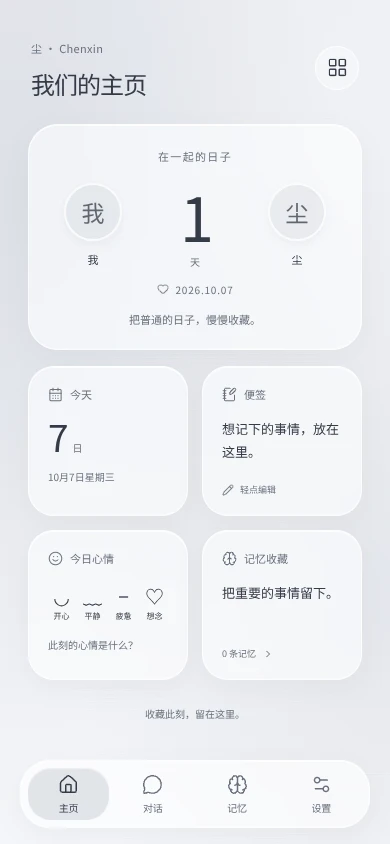
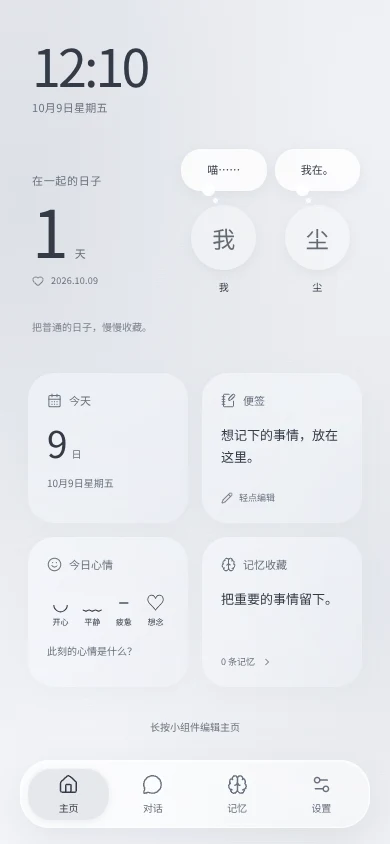
Redesign home anniversary and edit widgets directly on home
Remove the home heading and anniversary card background. Add a live 24-hour clock, day count and paired avatars with configurable thought bubbles. Long press or right-click a widget to enter home editing; edit dates, avatars, names, bubbles, notes and individual widget settings in a local sheet. Support hiding, adding and reordering widgets without opening Settings, and preserve edits only on save.

Add restrained feedback for buttons, page changes, dialogs, sidebar, settings disclosure, selections and widget reordering with reduced-motion support. Preserve new home fields through backup normalization and show save/upload failures inside the editor.

Verified syntax, 14 unit tests and browser checks for home editing/persistence, mobile/desktop sizes, dark mode, reduced motion, chat menus, drawers and sidebar navigation. Include home and editing screenshots.

diff --git a/src/views.js b/src/views.js
@@ -28,15 +28,19 @@ export function plugins(state) {
 }
 export const widgetLabels = {date:'今天',note:'便签',mood:'今日心情',memory:'记忆收藏'};
 const date = () => new Date().toLocaleDateString('zh-CN',{month:'long',day:'numeric',weekday:'long'});
-export function home(state) {
- const h=state.home, days=daysTogether(h.since), memories=state.memories.filter(m=>!isExpired(m));
+export function home(state,ui={}) {
+ const h=state.home,days=daysTogether(h.since),memories=state.memories.filter(m=>!isExpired(m)),editing=!!ui.editing;
+ const label=type=>escape(h.widgetTitles?.[type]||widgetLabels[type]);
+ const chosen=memories.find(m=>m.id===h.memoryId)||memories[0];
  const widgets={
- date:`<section class="widget glass date-widget"><span class="widget-label">${icon('calendar')}今天</span><strong>${new Date().getDate()}<small>日</small></strong><p>${date()}</p></section>`,
- note:`<button class="widget glass note-widget" data-action="customize" data-section="widgets-settings"><span class="widget-label">${icon('note')}便签</span><p>${escape(h.note||'想记下的事情，放在这里。')}</p><span class="widget-foot">${icon('edit')}轻点编辑</span></button>`,
- mood:`<section class="widget glass mood-widget"><span class="widget-label">${icon('mood')}今日心情</span><div class="moods">${['开心','平静','疲惫','想念'].map((m,i)=>`<button data-action="mood" data-mood="${m}" class="${h.mood===m?'selected':''}" aria-pressed="${h.mood===m}" aria-label="${m}"><span>${['◡','﹏','−','♡'][i]}</span><small>${m}</small></button>`).join('')}</div><p>${h.mood?`今天，是${escape(h.mood)}的。`:'此刻的心情是什么？'}</p></section>`,
- memory:`<button class="widget glass memory-widget" data-action="memory"><span class="widget-label">${icon('memory')}记忆收藏</span><p>${escape(memories[0]?.title||'把重要的事情留下。')}</p><span class="widget-foot">${memories.length} 条记忆 ${icon('chevron')}</span></button>`
+ date:`<section class="widget glass date-widget"><span class="widget-label">${icon('calendar')}${label('date')}</span><strong>${new Date().getDate()}<small>日</small></strong><p>${new Date().toLocaleDateString('zh-CN',{month:'long',day:'numeric',...(h.showWeekday!==false?{weekday:'long'}:{})})}</p></section>`,
+ note:`<button class="widget glass note-widget" data-home-action="edit" data-type="note"><span class="widget-label">${icon('note')}${label('note')}</span><p>${escape(h.note||'想记下的事情，放在这里。')}</p><span class="widget-foot">${icon('edit')}轻点编辑</span></button>`,
+ mood:`<section class="widget glass mood-widget"><span class="widget-label">${icon('mood')}${label('mood')}</span><div class="moods">${['开心','平静','疲惫','想念'].map((m,i)=>`<button data-action="mood" data-mood="${m}" class="${h.mood===m?'selected':''}" aria-pressed="${h.mood===m}" aria-label="${m}"><span>${['◡','﹏','−','♡'][i]}</span><small>${m}</small></button>`).join('')}</div><p>${h.mood?`今天，是${escape(h.mood)}的。`:'此刻的心情是什么？'}</p></section>`,
+ memory:`<button class="widget glass memory-widget" data-action="memory"><span class="widget-label">${icon('memory')}${label('memory')}</span><p>${escape(chosen?.title||'把重要的事情留下。')}</p><span class="widget-foot">${memories.length} 条记忆 ${icon('chevron')}</span></button>`
  };
- return `<div class="home-content"><header class="home-header"><div><span class="home-app-name">尘 · Chenxin</span><h1>我们的主页</h1></div>${button('customize','layout','自定义主页','data-section="widgets-settings"')}</header><button class="anniversary glass" data-action="customize" data-section="anniversary-settings"><span class="anniversary-title">${escape(h.title)}</span><div class="together"><div class="partner">${avatar(state,'user')}<span>${escape(h.userName)}</span></div><div class="day-count ${String(days>0?days:1-(days||0)).length>4?'long-count':''}"><strong>${days>0?days:1-(days||0)}</strong><span>${days>0?'天':'天后开始'}</span></div><div class="partner">${avatar(state,'ai')}<span>${escape(state.persona.name)}</span></div></div><span class="since">${icon('heart')} ${escape(h.since.replaceAll('-','.'))}</span><p>${escape(h.subtitle)}</p></button><div class="widget-grid">${h.widgets.filter(w=>w.enabled).map(w=>widgets[w.type]).join('')}</div>${h.widgets.every(w=>!w.enabled)?'<button class="add-widget glass" data-action="customize" data-section="widgets-settings">'+icon('plus')+' 添加小组件</button>':''}<p class="home-local">收藏此刻，留在这里。</p></div>`;
+ const wrap=(type,content)=>`<div class="home-widget ${type==='anniversary'?'hero-widget':''}" data-home-widget="${type}" tabindex="0" aria-label="${type==='anniversary'?'纪念日':label(type)}，长按或右键编辑"><div class="widget-surface" ${editing?'inert':''}>${content}</div>${editing?`<button class="widget-edit-cover" data-home-action="edit" data-type="${type}" aria-label="编辑${type==='anniversary'?'纪念日':label(type)}"><span>${icon('edit')}编辑</span></button>${type!=='anniversary'?`<button class="widget-remove" data-home-action="hide" data-type="${type}" aria-label="移除${label(type)}">−</button><div class="widget-move"><button data-home-action="move" data-type="${type}" data-direction="-1" aria-label="向前移动${label(type)}">${icon('up')}</button><button data-home-action="move" data-type="${type}" data-direction="1" aria-label="向后移动${label(type)}">${icon('down')}</button></div>`:''}`:''}</div>`;
+ const hero=`<section class="anniversary"><div class="home-clock"><time data-home-clock aria-label="当前时间，24 小时制">${new Date().toLocaleTimeString('en-GB',{hour:'2-digit',minute:'2-digit',hour12:false})}</time><span>${date()}</span></div><div class="anniversary-bottom"><div class="anniversary-days"><span class="anniversary-title">${escape(h.title)}</span><div class="day-count ${String(days>0?days:1-(days||0)).length>4?'long-count':''}"><strong data-home-days>${days>0?days:1-(days||0)}</strong><span data-home-days-unit>${days>0?'天':'天后开始'}</span></div><span class="since">${icon('heart')}${escape(h.since.replaceAll('-','.'))}</span></div><div class="home-partners">${[['user',h.userName,h.userBubble||'喵……'],['ai',state.persona.name,h.aiBubble||'我在。']].map(([who,name,bubble])=>`<div class="home-partner"><span class="thought-bubble"><span>${escape(bubble)}</span></span>${avatar(state,who)}<span class="partner-name">${escape(name)}</span></div>`).join('')}</div></div>${h.subtitle?`<p>${escape(h.subtitle)}</p>`:''}</section>`;
+ return `<div class="home-content ${editing?'home-editing':''}">${editing?`<div class="home-edit-toolbar"><button class="glass" data-home-action="add">${icon('plus')}添加组件</button><button class="glass" data-home-action="done">完成</button></div><p class="home-edit-help">轻点编辑 · − 隐藏 · 箭头调整顺序</p>`:''}${wrap('anniversary',hero)}<div class="widget-grid">${h.widgets.filter(w=>w.enabled).map(w=>wrap(w.type,widgets[w.type])).join('')}</div>${h.widgets.every(w=>!w.enabled)?`<button class="add-widget glass" data-home-action="add">${icon('plus')}添加小组件</button>`:''}<button class="home-edit-entry" data-home-action="begin">${editing?'正在编辑主页':'长按小组件编辑主页'}</button></div>`;
 }
 export function memory(state,filter='all',search='') {
  const list=state.memories.filter(m => (filter==='expired'?isExpired(m):!isExpired(m) && (filter==='all'||m.kind===filter)) && `${m.title} ${m.content}`.toLowerCase().includes(search.toLowerCase()));
@@ -49,11 +53,9 @@ function detail(id,title,symbol,body,summary='') {return `<details id="${id}" cl
 export function settings(state) {
  const a=state.appearance,h=state.home, total=state.sessions.reduce((n,s)=>n+s.messages.length,0);
  const appearance=`<div class="setting-row"><span>夜间模式</span><button class="toggle ${state.theme==='dark'?'on':''}" data-action="theme" role="switch" aria-checked="${state.theme==='dark'}" aria-label="夜间模式"><span></span></button></div><label class="field color-field"><span>主题色</span><input type="color" name="accent" value="${a.accent}" aria-label="主题色"></label><div class="color-presets">${['#7a879a','#9e83a4','#699b91','#bd8c92','#927f61'].map(c=>`<button data-action="accent" data-color="${c}" style="--swatch:${c}" aria-label="主题色 ${c}" aria-pressed="${a.accent===c}">${a.accent===c?icon('check'):''}</button>`).join('')}</div><label class="field"><span>玻璃透明度 <output id="opacity-output">${100-a.opacity}%</output></span><input type="range" name="opacity" min="30" max="95" value="${a.opacity}"></label><label class="field"><span>背景模糊 <output id="blur-output">${a.blur}px</output></span><input type="range" name="blur" min="0" max="40" value="${a.blur}"></label><div class="image-options">${[['wallpaper','壁纸','image'],['userAvatar','我的头像','person'],['aiAvatar','AI 头像','person']].map(([key,label,symbol])=>`<div class="image-option"><div class="image-preview ${key==='wallpaper'?'wallpaper-preview':''}">${a[key]?`<img src="${escape(a[key])}" alt="${label}">`:icon(symbol)}</div><label class="upload-label">${label}<input type="file" data-image="${key}" accept="image/png,image/jpeg,image/webp"></label><button data-action="clear-image" data-key="${key}" class="text-button" ${a[key]?'':'disabled'}>恢复默认</button></div>`).join('')}</div><p class="hint">图片保存在本机，会压缩后保存；推荐使用 JPG、PNG 或 WebP。</p>`;
- const anniversary=`<form id="home-form">${field('纪念日名称','title',h.title)}${field('开始日期','since',h.since,'','date')}${field('你的名字','userName',h.userName)}${field('一句话','subtitle',h.subtitle)}<p class="hint">开始当天为第 1 天。点击主页顶部组件也能修改。</p><button class="primary" type="submit">保存纪念日</button></form>`;
- const widgets=`<div class="widget-editor">${h.widgets.map((w,i)=>`<div class="widget-editor-row"><label><input type="checkbox" data-widget="${w.type}" ${w.enabled?'checked':''}>${widgetLabels[w.type]}</label><div>${button('move-widget','up','向上移动',`data-type="${w.type}" data-direction="-1" ${i===0?'disabled':''}`)}${button('move-widget','down','向下移动',`data-type="${w.type}" data-direction="1" ${i===h.widgets.length-1?'disabled':''}`)}</div></div>`).join('')}</div><form id="note-form"><label class="field"><span>便签内容</span><textarea name="note" rows="3" maxlength="500" placeholder="今天想记下什么…">${escape(h.note)}</textarea></label><button class="primary" type="submit">保存便签</button></form><p class="hint">可以隐藏、显示和调整小组件顺序。音乐等新组件以后再扩展。</p>`;
  const persona=`<form id="persona-form">${field('AI 名字','name',state.persona.name,'尘')}<label class="field"><span>角色设定</span><textarea name="prompt" rows="4" maxlength="12000" placeholder="希望的语气、性格与相处方式…">${escape(state.persona.prompt)}</textarea></label><button class="primary" type="submit">保存角色</button></form>`;
  const provider=`<form id="provider-form"><label class="field"><span>接口类型</span><select name="protocol">${[['openai','OpenAI 兼容'],['anthropic','Anthropic'],['gemini','Google Gemini']].map(([v,l])=>`<option value="${v}" ${state.provider.protocol===v?'selected':''}>${l}</option>`).join('')}</select></label>${field('API 基础地址','baseUrl',state.provider.baseUrl,'https://api.example.com/v1','url')}${field('模型 ID','model',state.provider.model,'填写服务商提供的模型 ID')}<label class="field"><span>API 密钥</span><input type="password" placeholder="接入模型时开放" disabled></label><p class="hint">当前只保存配置，模型尚未连接。</p><button class="primary" type="submit">保存模型配置</button></form>`;
  const storage=`<div class="storage-status"><span>当前储存</span><strong>本机浏览器</strong><p>约 ${(new Blob([JSON.stringify(state)]).size/1024).toFixed(1)} KB · 尚未开启云同步</p></div><button class="secondary" data-action="export">${icon('download')}导出完整备份</button><label class="upload-label import-label">${icon('upload')}导入备份<input type="file" id="import-data" accept="application/json,.json"></label><p class="hint">包含会话、记忆、外观、头像和配置。导入会替换当前数据，请先导出；清除浏览器数据会丢失本机记录。</p>`;
  const usage=`<div class="usage-values"><div><strong>${state.sessions.length}</strong><span>本机会话</span></div><div><strong>${total}</strong><span>本机消息</span></div><div><strong>${state.memories.filter(m=>!isExpired(m)).length}</strong><span>有效记忆</span></div></div><div class="info-banner">模型未连接，暂无 Token、费用或订阅额度数据。</div>`;
- return `<div class="page-heading"><h1>设置</h1><p>让这里，更像你。</p></div><div class="settings-list">${detail('appearance-settings','外观','sun',appearance,'壁纸、头像、主题色')}${detail('anniversary-settings','纪念日','heart',anniversary)}${detail('widgets-settings','主页小组件','layout',widgets)}${detail('persona-settings','陪伴者','person',persona)}${detail('model-settings','API 与模型','key',provider,'尚未连接')}${detail('plugins-settings','MCP 与插件','puzzle',plugins(state),'配置管理 · 未运行')}${detail('storage-settings','数据储存','data',storage)}${detail('usage-settings','用量情况','usage',usage)}</div><p class="settings-version">尘 · v0.2 / 本机前端预览</p>`;
+ return `<div class="page-heading"><h1>设置</h1><p>让这里，更像你。</p></div><div class="settings-list">${detail('appearance-settings','外观','sun',appearance,'壁纸、头像、主题色')}${detail('persona-settings','陪伴者','person',persona)}${detail('model-settings','API 与模型','key',provider,'尚未连接')}${detail('plugins-settings','MCP 与插件','puzzle',plugins(state),'配置管理 · 未运行')}${detail('storage-settings','数据储存','data',storage)}${detail('usage-settings','用量情况','usage',usage)}</div><p class="settings-version">尘 · v0.2 / 本机前端预览</p>`;
 }

diff --git a/src/style.css b/src/style.css
@@ -46,3 +46,34 @@ button:active:not(:disabled){transform:scale(.97)}
 .tray-backdrop:hover,.tray-backdrop:active{transform:none!important;filter:none!important}
 
 .message .bubble{-webkit-touch-callout:none;user-select:none;touch-action:pan-y}.message .bubble:focus-visible{outline:2px solid var(--accent);outline-offset:4px}.message-dialog{position:fixed;inset:auto;margin:0;width:200px;max-width:calc(100vw - 24px);padding:8px;border-radius:22px;background:rgb(var(--glass-tint) / .9)}.message-dialog::backdrop{background:rgb(20 27 40 / .13);backdrop-filter:blur(6px);-webkit-backdrop-filter:blur(6px)}.message-menu{display:grid}.message-menu button{min-height:48px;padding:10px 16px;text-align:left;border-radius:14px;font-size:14px}.message-menu button:hover{background:rgb(var(--tint) / .12)}.message-menu .destructive{color:var(--ink)}.message-dialog.editing{inset:0;margin:auto;width:min(440px,calc(100vw - 32px));max-height:85dvh;padding:22px;overflow:auto}.message-dialog textarea{width:100%;resize:vertical;min-height:140px}.reasoning-trigger{display:flex;align-items:center;gap:7px;align-self:flex-start;margin-top:9px;color:var(--muted);font-size:11px;padding:8px 12px;border-radius:16px;background:rgb(var(--glass-tint) / .3)}.reasoning-trigger svg{width:13px;height:13px}.reasoning-label{font-size:11px;color:var(--muted);margin:10px 0}.reasoning-content{white-space:pre-wrap;overflow-wrap:anywhere;line-height:1.85;font-size:14px;user-select:text;min-height:140px;max-height:55dvh;overflow:auto;padding:14px;border-radius:18px;background:rgb(var(--glass-tint) / .25)}
+
+/* Home: wallpaper-first anniversary and direct widget editing. */
+.home-page{padding-top:calc(28px + env(safe-area-inset-top))}.home-content{max-width:480px}.home-widget{position:relative;min-width:0;border-radius:26px;touch-action:pan-y;-webkit-touch-callout:none}.home-widget:focus-visible{outline:2px solid var(--accent);outline-offset:5px}.widget-surface{height:100%;min-width:0}.widget-surface>.widget{width:100%;height:100%;border:0;background-color:rgb(var(--glass-tint) / calc(var(--glass-alpha) * .55));box-shadow:0 6px 22px rgb(var(--tint) / .045)}.home-widget .anniversary{padding:8px 4px 22px;border:0;border-radius:0;background:none;box-shadow:none;backdrop-filter:none;overflow:visible;text-align:left}.home-clock{display:flex;flex-direction:column;gap:6px;margin-bottom:24px}.home-clock time{font-size:52px;font-weight:270;line-height:1.1;letter-spacing:-.055em;font-variant-numeric:tabular-nums}.home-clock>span{font-size:11px;color:var(--muted);letter-spacing:.03em}.anniversary-bottom{display:grid;grid-template-columns:minmax(0,.95fr) minmax(0,1.25fr);gap:18px;align-items:end}.anniversary-days{padding:7px 0;min-width:0}.anniversary-days .anniversary-title{justify-content:flex-start;letter-spacing:.06em;font-size:11px;text-align:left}.anniversary-days .day-count{display:flex;align-items:baseline;gap:10px;margin:7px 0 12px}.anniversary-days .day-count strong{font-size:66px;font-weight:250;line-height:1;letter-spacing:-.06em}.anniversary-days .day-count.long-count strong{font-size:39px}.anniversary-days .day-count>span{margin:0;font-size:11px;white-space:nowrap}.anniversary-days .since{justify-content:flex-start;font-size:9px;letter-spacing:.025em}.home-partners{display:grid;grid-template-columns:repeat(2,minmax(0,1fr));gap:12px;align-items:end;padding-top:10px}.home-partner{min-width:0;display:flex;flex-direction:column;align-items:center;position:relative;gap:9px}.home-partner .avatar{width:65px;height:65px;border:0;box-shadow:0 4px 12px rgb(var(--tint) / .12);background:rgb(var(--glass-tint) / .35)}.partner-name{font-size:10px;max-width:100%;overflow:hidden;white-space:nowrap;text-overflow:ellipsis}.thought-bubble{position:relative;align-self:stretch;display:flex;align-items:center;justify-content:center;min-height:42px;margin:0 -2px 5px;padding:11px 10px;border-radius:20px;max-height:80px;color:var(--ink);background:rgb(var(--glass-tint) / .8);box-shadow:0 4px 14px rgb(var(--tint) / .13);font-size:11px;line-height:1.4;overflow-wrap:anywhere;text-align:center;white-space:pre-wrap;isolation:isolate}.thought-bubble:before,.thought-bubble:after{content:'';position:absolute;bottom:-5px;left:25%;width:13px;height:12px;border-radius:50%;background:rgb(var(--glass-tint) / .9)}.thought-bubble:after{width:5px;height:5px;left:37%;bottom:-12px;background:rgb(var(--glass-tint) / .8)}.home-widget .anniversary>p{font-size:10px;margin-top:24px;text-align:left;opacity:.85}.home-edit-entry{display:block;margin:22px auto 0;padding:10px 16px;font-size:10px;color:var(--muted);border-radius:18px}.home-edit-toolbar{display:flex;align-items:center;justify-content:space-between;gap:12px;position:sticky;top:0;z-index:9;margin-bottom:8px}.home-edit-toolbar>button{display:flex;align-items:center;gap:6px;min-height:40px;padding:8px 16px;border-radius:22px;font-size:12px}.home-edit-toolbar svg{width:16px;height:16px}.home-edit-help{font-size:10px;color:var(--muted);margin:8px 2px 22px}.home-editing .home-widget{outline:1px dashed rgb(var(--tint) / .5);outline-offset:4px}.widget-edit-cover{position:absolute;inset:0;width:100%;border-radius:26px;z-index:2;display:flex;align-items:center;justify-content:center;background:rgb(var(--glass-tint) / .04)}.widget-edit-cover>span{display:flex;gap:5px;align-items:center;background:rgb(var(--glass-tint) / .88);backdrop-filter:blur(12px);border-radius:18px;box-shadow:0 2px 10px rgb(var(--tint) / .14);font-size:11px;padding:9px 13px}.widget-edit-cover svg{width:13px;height:13px}.widget-remove{position:absolute;top:-10px;left:-10px;z-index:3;width:30px;height:30px;display:grid;place-items:center;border-radius:50%;background:var(--solid);box-shadow:0 2px 9px rgb(var(--tint) / .2);font-size:21px}.widget-move{position:absolute;bottom:5px;right:5px;z-index:3;display:flex;gap:2px;background:rgb(var(--glass-tint) / .85);border-radius:15px}.widget-move button{width:32px;height:30px;display:grid;place-items:center}.widget-move svg{width:13px;height:13px}.home-editor-dialog{position:fixed;inset:auto 0 0;margin:0 auto;width:min(540px,100%);max-width:none;max-height:85dvh;padding:20px 22px calc(24px + env(safe-area-inset-bottom));border:0;border-radius:30px 30px 0 0;color:var(--ink);background-color:rgb(var(--glass-tint) / .92);overflow:auto;overscroll-behavior:contain}.home-editor-dialog::backdrop{background:rgb(20 27 40 / .16);backdrop-filter:blur(7px);-webkit-backdrop-filter:blur(7px)}.home-editor-heading{display:flex;align-items:center;justify-content:space-between;gap:12px}.home-editor-heading h2{font-size:17px}.home-editor-heading button{width:40px;height:40px;display:grid;place-items:center;border-radius:50%}.home-avatar-editor{display:grid;grid-template-columns:1fr 1fr;gap:16px;padding:10px 0}.home-avatar-editor>div{display:flex;flex-direction:column;align-items:center;gap:10px}.home-avatar-editor .upload-label{position:relative;font-size:11px;cursor:pointer}.home-editor-footer{display:flex;justify-content:flex-end;gap:10px;margin-top:20px}.home-editor-footer button{min-width:80px}.home-widget-picker{display:grid;gap:9px;margin-top:16px}.home-widget-picker button{display:flex;justify-content:space-between;align-items:center;padding:18px;border-radius:20px;background:rgb(var(--tint) / .08);font-size:13px}.home-widget-picker small{font-size:10px;color:var(--muted)}.home-check{display:flex;align-items:center;gap:10px;font-size:13px;padding:15px 0}.home-check input{width:18px;height:18px}
+@media(max-width:380px){.home-page{padding-left:20px;padding-right:20px}.home-clock time{font-size:46px}.anniversary-bottom{gap:10px;grid-template-columns:.9fr 1.3fr}.home-partners{gap:8px}.home-partner .avatar{width:52px;height:52px}.anniversary-days .day-count strong{font-size:55px}.anniversary-days .anniversary-title{font-size:10px}.thought-bubble{font-size:10px;padding:9px 6px;min-height:38px}.anniversary-days .since{font-size:8px}.home-widget .anniversary{padding-left:0;padding-right:0}.home-editor-dialog{padding-left:18px;padding-right:18px}}
+
+/* Interaction feedback, with one shared, restrained motion language. */
+:root{--motion-fast:150ms;--motion-normal:240ms;--motion-ease:cubic-bezier(.2,.8,.2,1)}
+button,summary,.upload-label{transition:transform var(--motion-fast) var(--motion-ease),background-color var(--motion-fast),box-shadow var(--motion-fast),color var(--motion-fast),opacity var(--motion-fast)}
+button:active:not(:disabled),.upload-label:active{transform:scale(.96)}
+button:focus-visible,.upload-label:focus-within{transition:outline-offset var(--motion-fast);outline-offset:4px}
+input,textarea,select{transition:border-color var(--motion-fast),box-shadow var(--motion-fast)}
+.moods .selected>span{animation:feedback-pop 230ms var(--motion-ease)}
+.bottom-nav button.active svg{animation:feedback-pop 230ms var(--motion-ease)}
+.settings-section[open] .settings-body{animation:content-arrive 190ms var(--motion-ease)}
+dialog[open]{animation:dialog-arrive var(--motion-normal) var(--motion-ease)}
+dialog[open]::backdrop{animation:backdrop-arrive 180ms ease-out}
+#sidebar-dialog[open]{animation:sidebar-arrive 260ms var(--motion-ease)}
+.home-editor-dialog[open]{animation:sheet-arrive 260ms var(--motion-ease)}
+.tray-backdrop{animation:backdrop-arrive 180ms ease-out}
+.expression-tabs [aria-selected=true],.filter-tabs .active{animation:feedback-pop 180ms var(--motion-ease)}
+@keyframes feedback-pop{0%{transform:scale(.92)}65%{transform:scale(1.04)}100%{transform:scale(1)}}
+@keyframes content-arrive{from{opacity:0;transform:translateY(5px)}to{opacity:1;transform:translateY(0)}}
+@keyframes dialog-arrive{from{opacity:0;transform:translateY(6px) scale(.97)}to{opacity:1;transform:none}}
+@keyframes backdrop-arrive{from{opacity:0}to{opacity:1}}
+@keyframes sidebar-arrive{from{transform:translateX(-100%)}to{transform:translateX(0)}}
+@keyframes sheet-arrive{from{transform:translateY(100%)}to{transform:translateY(0)}}
+@media(prefers-reduced-motion:reduce){*,*:before,*:after{animation:none!important;transition:none!important;scroll-behavior:auto!important}}
+
+.thought-bubble>span{display:-webkit-box;-webkit-box-orient:vertical;-webkit-line-clamp:3;overflow:hidden;max-width:100%}
+@supports (transition-behavior:allow-discrete){dialog{opacity:0;transition:opacity 160ms ease-out,display 160ms allow-discrete,overlay 160ms allow-discrete}dialog[open]{opacity:1}dialog::backdrop{opacity:0;transition:opacity 160ms,display 160ms allow-discrete,overlay 160ms allow-discrete}dialog[open]::backdrop{opacity:1}}
+@media(prefers-reduced-motion:reduce){dialog,dialog::backdrop{transition:none!important}}

diff --git a/src/home-editor.js b/src/home-editor.js
@@ -1,0 +1,74 @@
+import { avatar, escape, field, widgetLabels } from './views.js';
+import { icon } from './icons.js';
+import { daysTogether, isExpired, localDate } from './store.js';
+
+export function createHomeEditor({app,getState,setState,persist,render,notify,compressImage}) {
+ const ui={editing:false};
+ const dialog=document.createElement('dialog');dialog.className='glass home-editor-dialog';dialog.setAttribute('aria-label','编辑主页小组件');document.body.append(dialog);
+ let draft=null,type='',press=null,ignoreClickUntil=0,held=false,lastDate=localDate(),uploads=0;
+ const motion=()=>!matchMedia('(prefers-reduced-motion: reduce)').matches;
+ function refresh(){const y=app.querySelector('.home-page')?.scrollTop||0;render();const page=app.querySelector('.home-page');if(page)page.scrollTop=y;}
+ function report(message){const el=dialog.querySelector('.home-editor-error');if(el){el.hidden=false;el.textContent=message;}else notify(message);}
+ function commit(change){const before=structuredClone(getState());change(getState());if(!persist()){setState(before);if(dialog.open)report('保存失败，本机存储空间可能不足。当前修改尚未保存。');return false;}return true;}
+ function begin(){if(ui.editing)return;ui.editing=true;refresh();if(motion())app.querySelectorAll('.home-widget').forEach(el=>el.animate([{transform:'rotate(-.5deg)'},{transform:'rotate(.5deg)'},{transform:'rotate(0)'}],{duration:260,iterations:2}));}
+ function header(title){return `<div class="home-editor-heading"><h2>${title}</h2><button type="button" data-home-close aria-label="关闭编辑">${icon('close')}</button></div><p class="home-editor-error hint" role="alert" hidden></p>`;}
+ function open(kind){
+  type=kind;uploads=0;draft=structuredClone(getState());const h=draft.home;
+  let content='';
+  if(kind==='add'){content=`${header('添加小组件')}<div class="home-widget-picker">${h.widgets.map(w=>`<button data-home-add="${w.type}" ${w.enabled?'disabled':''}><span>${widgetLabels[w.type]}</span><small>${w.enabled?'已在主页':'添加 +'}</small></button>`).join('')}</div>`;}
+  else if(kind==='anniversary'){
+   content=field('纪念日名称','title',h.title)+field('开始日期','since',h.since,'','date')+`<div class="home-avatar-editor">${[['user','userAvatar','你的头像'],['ai','aiAvatar','AI 头像']].map(([who,key,label])=>`<div><div data-avatar-preview="${key}">${avatar(draft,who)}</div><label class="upload-label">${label}<input type="file" data-home-avatar="${key}" accept="image/jpeg,image/png,image/webp"></label><button type="button" data-reset-avatar="${key}" class="text-button">恢复默认</button></div>`).join('')}</div>`+field('你的名字','userName',h.userName)+field('AI 名字','aiName',draft.persona.name)+field('你的气泡','userBubble',h.userBubble||'喵……')+field('AI 的气泡','aiBubble',h.aiBubble||'我在。')+field('下方的一句话','subtitle',h.subtitle)+`<p class="hint">开始当天为第 1 天。头像与名字也会同步用于对话。</p>`;
+  }else{
+   content=field('组件标题','widgetTitle',h.widgetTitles?.[kind]||widgetLabels[kind]);
+   if(kind==='note')content+=`<label class="field"><span>便签内容</span><textarea name="note" maxlength="500" rows="5">${escape(h.note)}</textarea></label>`;
+   if(kind==='date')content+=`<label class="home-check"><input name="showWeekday" type="checkbox" ${h.showWeekday!==false?'checked':''}>显示星期</label>`;
+   if(kind==='mood')content+=`<label class="field"><span>此刻的心情</span><select name="mood">${['','开心','平静','疲惫','想念'].map(m=>`<option value="${m}" ${h.mood===m?'selected':''}>${m||'还没想好'}</option>`).join('')}</select></label>`;
+   if(kind==='memory')content+=`<label class="field"><span>主页展示的记忆</span><select name="memoryId"><option value="">自动显示最新记忆</option>${draft.memories.filter(m=>!isExpired(m)).map(m=>`<option value="${escape(m.id)}" ${h.memoryId===m.id?'selected':''}>${escape(m.title)}</option>`).join('')}</select></label>`;
+  }
+  dialog.innerHTML=kind==='add'?content:`<form id="home-widget-form">${header(kind==='anniversary'?'编辑纪念日':`编辑${widgetLabels[kind]}`)}${content}<div class="home-editor-footer"><button type="button" class="secondary" data-home-close>取消</button><button class="primary" type="submit">保存</button></div></form>`;
+  if(!dialog.open)dialog.showModal();
+  dialog.querySelector('[name=since]')?.setAttribute('required','');
+  dialog.querySelectorAll('[name=userBubble],[name=aiBubble],[name=userName],[name=aiName],[name=title]').forEach(el=>el.maxLength=40);
+  dialog.querySelector('[name=subtitle]')?.setAttribute('maxlength','200');
+  dialog.querySelector('[name=widgetTitle]')?.setAttribute('maxlength','20');
+  dialog.querySelector('[data-home-close]')?.focus({preventScroll:true});
+ }
+ function act(target){const action=target.dataset.homeAction,kind=target.dataset.type;
+  if(action==='begin'){begin();return;}
+  if(action==='done'){ui.editing=false;refresh();return;}
+  if(action==='edit'){open(kind);return;}
+  if(action==='add'){begin();open('add');return;}
+  if(action==='hide'){if(commit(s=>{s.home.widgets.find(w=>w.type===kind).enabled=false;}))refresh();return;}
+  if(action==='move'){
+   const positions=new Map([...app.querySelectorAll('.home-widget')].map(el=>[el.dataset.homeWidget,el.getBoundingClientRect()]));
+   const visible=getState().home.widgets.filter(w=>w.enabled),i=visible.findIndex(w=>w.type===kind),other=visible[i+Number(target.dataset.direction)];if(!other)return;
+   if(commit(s=>{const list=s.home.widgets,a=list.findIndex(w=>w.type===kind),b=list.findIndex(w=>w.type===other.type);[list[a],list[b]]=[list[b],list[a]];})){refresh();if(motion())app.querySelectorAll('.home-widget').forEach(el=>{const a=positions.get(el.dataset.homeWidget),b=el.getBoundingClientRect();if(a)el.animate([{transform:`translate(${a.x-b.x}px,${a.y-b.y}px)`},{transform:'translate(0,0)'}],{duration:240,easing:'cubic-bezier(.2,.8,.2,1)'});});}return;
+  }
+ }
+ app.addEventListener('click',e=>{if(Date.now()<ignoreClickUntil&&e.target.closest('.home-content')){e.preventDefault();e.stopImmediatePropagation();return;}const target=e.target.closest('[data-home-action]');if(target){e.preventDefault();e.stopImmediatePropagation();act(target);}},true);
+ function cancel(){if(press)clearTimeout(press.timer);press=null;}
+ app.addEventListener('pointerdown',e=>{if(e.button!==0||ui.editing||!e.target.closest('[data-home-widget]'))return;cancel();held=false;press={x:e.clientX,y:e.clientY,timer:setTimeout(()=>{press=null;held=true;begin();},550)};});
+ app.addEventListener('pointermove',e=>{if(press&&Math.hypot(e.clientX-press.x,e.clientY-press.y)>10)cancel();});
+ app.addEventListener('pointerup',()=>{cancel();if(held){ignoreClickUntil=Date.now()+100;held=false;}});
+ for(const name of ['pointercancel','scroll'])app.addEventListener(name,cancel,true);
+ app.addEventListener('contextmenu',e=>{if(!e.target.closest('[data-home-widget]'))return;e.preventDefault();cancel();begin();});
+ app.addEventListener('keydown',e=>{if(e.key==='Escape'&&ui.editing){ui.editing=false;refresh();}if(e.target.matches('[data-home-widget]')&&(e.key==='Enter'||e.key===' '||e.key==='ContextMenu'||e.shiftKey&&e.key==='F10')){e.preventDefault();begin();}});
+ dialog.addEventListener('click',e=>{
+  if(e.target.closest('[data-home-close]')){dialog.close();return;}
+  if(e.target===dialog){const r=dialog.getBoundingClientRect();if(e.clientX<r.left||e.clientX>r.right||e.clientY<r.top||e.clientY>r.bottom)dialog.close();return;}
+  const add=e.target.closest('[data-home-add]');if(add){if(commit(s=>{s.home.widgets.find(w=>w.type===add.dataset.homeAdd).enabled=true;})){refresh();open('add');}return;}
+  const reset=e.target.closest('[data-reset-avatar]');if(reset){const key=reset.dataset.resetAvatar;draft.appearance[key]='';dialog.querySelector(`[data-avatar-preview="${key}"]`).innerHTML=avatar(draft,key==='userAvatar'?'user':'ai');}
+ });
+ dialog.addEventListener('change',async e=>{const input=e.target,key=input.dataset.homeAvatar;if(!key||!input.files[0])return;const editingDraft=draft,save=dialog.querySelector('[type=submit]');uploads++;save.disabled=true;
+  try{const data=await compressImage(input.files[0],256);if(!dialog.open||draft!==editingDraft)return;draft.appearance[key]=data;dialog.querySelector(`[data-avatar-preview="${key}"]`).innerHTML=avatar(draft,key==='userAvatar'?'user':'ai');}catch(error){if(draft===editingDraft)report(error.message);}finally{if(draft===editingDraft){uploads--;save.disabled=uploads>0;}input.value='';}
+ });
+ dialog.addEventListener('submit',e=>{e.preventDefault();const data=Object.fromEntries(new FormData(e.target));if(type==='anniversary'&&daysTogether(data.since)===null){notify('请选择有效的日期。');return;}
+  if(commit(s=>{if(type==='anniversary'){Object.assign(s.home,{title:data.title.trim().slice(0,40)||'在一起的日子',since:data.since,userName:data.userName.trim().slice(0,40)||'我',userBubble:data.userBubble.trim().slice(0,40),aiBubble:data.aiBubble.trim().slice(0,40),subtitle:data.subtitle.slice(0,200)});s.persona.name=data.aiName.trim().slice(0,40)||s.persona.name;s.appearance.userAvatar=draft.appearance.userAvatar;s.appearance.aiAvatar=draft.appearance.aiAvatar;}
+   else{s.home.widgetTitles={...s.home.widgetTitles,[type]:data.widgetTitle.trim().slice(0,20)};if(type==='note')s.home.note=data.note.slice(0,500);if(type==='date')s.home.showWeekday=data.showWeekday==='on';if(type==='mood')s.home.mood=data.mood;if(type==='memory')s.home.memoryId=data.memoryId;}
+  })){dialog.close();refresh();notify('小组件已保存。');}
+ });
+ dialog.addEventListener('close',()=>{draft=null;app.querySelector(`[data-home-widget="${type}"]`)?.focus({preventScroll:true});});
+ function clock(){if(lastDate!==localDate()){lastDate=localDate();if(app.querySelector('.home-page'))refresh();}const clock=app.querySelector('[data-home-clock]');if(!clock)return;const now=new Date(),h=getState().home,days=daysTogether(h.since);clock.textContent=now.toLocaleTimeString('en-GB',{hour:'2-digit',minute:'2-digit',hour12:false});clock.dateTime=now.toISOString();const count=app.querySelector('[data-home-days]');if(count)count.textContent=days>0?days:1-(days||0);const unit=app.querySelector('[data-home-days-unit]');if(unit)unit.textContent=days>0?'天':'天后开始';}
+ setInterval(clock,1000);document.addEventListener('visibilitychange',clock);
+ return {ui,exit(){ui.editing=false;cancel();},clock};
+}

diff --git a/src/app.js b/src/app.js
@@ -1,3 +1,4 @@
+import { createHomeEditor } from './home-editor.js';
 import { finishSplash } from './splash.js';
 import { icon } from './icons.js';
 import { localDate, loadState, saveState, normalizeState, newSession, addDraftMessage, exportData, saveMemory, changeMessage } from './store.js';
@@ -12,6 +13,7 @@ const sidebarDialog=document.createElement('dialog');sidebarDialog.id='sidebar-d
 let chatUI={tray:'',tab:'kaomoji',filter:'all',attachments:[]},selection={start:0,end:0};
 const expressionDialog=document.createElement('dialog');expressionDialog.className='glass expression-dialog';document.body.append(expressionDialog);
 const dialog=document.createElement('dialog');dialog.id='memory-dialog';dialog.className='glass';document.body.append(dialog);
+const homeEditor=createHomeEditor({app,getState:()=>state,setState:value=>{state=value;},persist,render,notify,compressImage});
 function notify(value){const n=document.querySelector('#notice');n.textContent=value;n.classList.add('visible');clearTimeout(toastTimer);toastTimer=setTimeout(()=>n.classList.remove('visible'),3500);}
 function persist(){try{saveState(storage,state);return true;}catch{notify('本机存储不足或不可用。修改尚未保存，请导出备份或换一张更小的图片。');return false;}}
 function saveNotice(text){if(persist())notify(text);}
@@ -20,13 +22,13 @@ function render(){
  for(const node of app.querySelectorAll('details')){if(node.open)opened.add(node.id);else opened.delete(node.id);}
  applyAppearance();
  const activePage=page==='sessions'?'chat':page;
- app.innerHTML=`<div class="shell ${['chat','sessions'].includes(page)?'immersive':''}"><div class="wallpaper" aria-hidden="true"></div><main>${page==='chat'?chat(state,chatUI):page==='sessions'?sessions(state,sessionSearch,oldestFirst):`<div class="page-content ${page==='home'?'home-page':''}">${page==='home'?home(state):page==='memory'?memory(state,memoryFilter,memorySearch):page==='settings'?settings(state):`<header class="session-header">${button('chat','back','返回对话')}</header>${sessions(state)}`}</div>`}</main>${['chat','sessions'].includes(page)?'':`<div class="nav-dock"><nav class="bottom-nav glass" aria-label="主导航">${nav.map(([p,i,l])=>`<button data-action="${p}" class="${activePage===p?'active':''}" ${activePage===p?'aria-current="page"':''}>${icon(i)}<span>${l}</span></button>`).join('')}</nav></div>`}</div>`;
+ app.innerHTML=`<div class="shell ${['chat','sessions'].includes(page)?'immersive':''}"><div class="wallpaper" aria-hidden="true"></div><main>${page==='chat'?chat(state,chatUI):page==='sessions'?sessions(state,sessionSearch,oldestFirst):`<div class="page-content ${page==='home'?'home-page':''}">${page==='home'?home(state,homeEditor.ui):page==='memory'?memory(state,memoryFilter,memorySearch):page==='settings'?settings(state):`<header class="session-header">${button('chat','back','返回对话')}</header>${sessions(state)}`}</div>`}</main>${['chat','sessions'].includes(page)?'':`<div class="nav-dock"><nav class="bottom-nav glass" aria-label="主导航">${nav.map(([p,i,l])=>`<button data-action="${p}" class="${activePage===p?'active':''}" ${activePage===p?'aria-current="page"':''}>${icon(i)}<span>${l}</span></button>`).join('')}</nav></div>`}</div>`;
  if(sidebarDialog.open){const scroll=sidebarDialog.querySelector('.sidebar-conversations')?.scrollTop||0;sidebarDialog.innerHTML=sidebar(state,page);sidebarDialog.querySelector('.sidebar-conversations').scrollTop=scroll;}
  for(const id of opened){const d=document.getElementById(id);if(d)d.open=true;}
  const messages=document.querySelector('#messages');if(messages)messages.scrollTop=messages.scrollHeight;
  const input=app.querySelector('[name=message]');if(input){input.value=composeDraft;input.setSelectionRange(selection.start,selection.end);resizeComposer();}updateViewport();syncTray();
 }
-function goto(next){if(sidebarDialog.open)sidebarDialog.close();chatUI.tray='';page=next;render();app.querySelector('.page-content')?.scrollTo(0,0);}
+function goto(next){homeEditor.exit();if(sidebarDialog.open)sidebarDialog.close();chatUI.tray='';page=next;render();app.querySelector('.page-content')?.scrollTo(0,0);if(!matchMedia('(prefers-reduced-motion: reduce)').matches)app.querySelector('main')?.animate([{opacity:0,transform:'translateY(6px)'},{opacity:1,transform:'translateY(0)'}],{duration:210,easing:'ease-out'});}
 function focusSettings(id){goto('settings');const d=document.getElementById(id);if(d){d.open=true;opened.add(id);d.scrollIntoView({behavior:'smooth',block:'start'});}}
 function showMemoryEditor(item,source=''){dialog.innerHTML=memoryEditor(item,source);dialog.showModal();dialog.querySelector('[name=title]').focus();}
 function closeModal(){dialog.close();}
@@ -75,7 +77,6 @@ function handleAction(e){
  else if(action==='accent'){state.appearance.accent=target.dataset.color;persist();const y=app.querySelector('.page-content').scrollTop;render();app.querySelector('.page-content').scrollTop=y;}
  else if(action==='clear-image'){const key=target.dataset.key;if(!['wallpaper','userAvatar','aiAvatar'].includes(key))return;state.appearance[key]='';persist();const y=app.querySelector('.page-content').scrollTop;render();app.querySelector('.page-content').scrollTop=y;}
  else if(action==='mood'){state.home.mood=target.dataset.mood;persist();render();}
- else if(action==='move-widget'){const i=state.home.widgets.findIndex(w=>w.type===target.dataset.type),j=i+Number(target.dataset.direction);if(j<0||j>=state.home.widgets.length)return;[state.home.widgets[i],state.home.widgets[j]]=[state.home.widgets[j],state.home.widgets[i]];persist();const y=app.querySelector('.page-content').scrollTop;render();app.querySelector('.page-content').scrollTop=y;}
  else if(action==='new'){newSession(state);composeDraft='';chatUI.attachments=[];persist();goto('chat');app.querySelector('[name=message]').focus();}
  else if(action==='delete-session'){if(!confirm('删除这段会话？已收藏的记忆会保留。'))return;if(state.active===target.dataset.id){composeDraft='';chatUI.attachments=[];}state.sessions=state.sessions.filter(s=>s.id!==target.dataset.id);if(!state.sessions.length)newSession(state);if(!state.sessions.some(s=>s.id===state.active))state.active=state.sessions[0].id;persist();render();}
  else if(action==='delete-plugin'){if(!confirm('删除这项插件配置？'))return;state.plugins=state.plugins.filter(p=>p.id!==target.dataset.id);persist();render();}
@@ -93,8 +94,6 @@ app.addEventListener('submit',e=>{
  e.preventDefault();const form=e.target,data=Object.fromEntries(new FormData(form));
  if(form.getAttribute('id')==='compose'){if(!data.message.trim()&&!chatUI.attachments.length)return;const snapshot=structuredClone(state);addDraftMessage(state,data.message,chatUI.attachments);const ok=persist();if(!ok){state=snapshot;return;}composeDraft='';selection={start:0,end:0};chatUI.attachments=[];chatUI.tray='';render();app.querySelector('[name=message]').focus();if(ok)notify('已保存本机；模型未连接，这条消息没有发送。');}
  else if(form.getAttribute('id')==='persona-form'){if(!data.name.trim())return notify('请填写 AI 名字。');state.persona={name:data.name.trim().slice(0,40),prompt:data.prompt};saveNotice('角色已保存。');}
- else if(form.getAttribute('id')==='home-form'){if(!data.since)return notify('请选择开始日期。');state.home={...state.home,title:data.title.trim().slice(0,40)||'在一起的日子',since:data.since,userName:data.userName.trim().slice(0,40)||'我',subtitle:data.subtitle.slice(0,200)};saveNotice('纪念日已保存。');}
- else if(form.getAttribute('id')==='note-form'){state.home.note=data.note.slice(0,500);saveNotice('便签已保存。');}
  else if(form.getAttribute('id')==='provider-form'){if(!validEndpoint(data.baseUrl.trim()))return notify('请使用不含密钥、查询参数或账号信息的 HTTPS 地址。');state.provider={protocol:data.protocol,baseUrl:data.baseUrl.trim(),model:data.model.trim()};saveNotice('模型配置已保存，尚未连接服务。');}
  else if(form.getAttribute('id')==='plugin-form'){if(!data.name.trim()||!data.url.trim())return notify('请填写名称和服务地址。');if(!validEndpoint(data.url.trim()))return notify('请使用不含密钥、查询参数或账号信息的 HTTPS 地址。');const p={id:data.id||crypto.randomUUID(),name:data.name.trim().slice(0,80),type:data.type,url:data.url.trim()},i=state.plugins.findIndex(x=>x.id===p.id);if(i<0)state.plugins.push(p);else state.plugins[i]=p;saveNotice('配置已保存，插件运行尚未接入。');render();}
 });
@@ -125,7 +124,6 @@ app.addEventListener('change',async e=>{
   return;
  }
  if(['accent','blur','opacity'].includes(t.name)&&t.closest('#appearance-settings'))persist();
- if(t.dataset.widget){const w=state.home.widgets.find(w=>w.type===t.dataset.widget);w.enabled=t.checked;persist();}
  if(t.dataset.image && t.files[0]){
    const key=t.dataset.image,previous=state.appearance[key];
    try{const data=await compressImage(t.files[0],key==='wallpaper'?1440:256);state.appearance[key]=data;if(!persist()){state.appearance[key]=previous;return;}const y=app.querySelector('.page-content').scrollTop;render();app.querySelector('.page-content').scrollTop=y;notify('图片已保存。');}catch(error){notify(error.message);}

diff --git a/src/store.js b/src/store.js
@@ -13,7 +13,7 @@ export function daysTogether(since, now = new Date()) {
 }
 function extras() {
  return { appearance: { accent:'#7a879a', wallpaper:'', userAvatar:'', aiAvatar:'', blur:22, opacity:60 },
- home: { since:localDate(), title:'在一起的日子', userName:'我', subtitle:'把普通的日子，慢慢收藏。', note:'', mood:'', widgets:WIDGETS.map(type=>({type,enabled:true})) }, memories:[], expressions:{kaomoji:['❍⩊❍','˶ᵔ ᵕ ᵔ˶','˃ ˄ ˂̥̥','(｡･ω･｡)'].map(value=>({id:crypto.randomUUID(),value,favorite:true,used:0})),stickers:[]} };
+ home: { since:localDate(), title:'在一起的日子', userName:'我', subtitle:'把普通的日子，慢慢收藏。', note:'', mood:'', userBubble:'喵……', aiBubble:'我在。', widgetTitles:{}, showWeekday:true, memoryId:'', widgets:WIDGETS.map(type=>({type,enabled:true})) }, memories:[], expressions:{kaomoji:['❍⩊❍','˶ᵔ ᵕ ᵔ˶','˃ ˄ ˂̥̥','(｡･ω･｡)'].map(value=>({id:crypto.randomUUID(),value,favorite:true,used:0})),stickers:[]} };
 }
 export function createState() {
  const id = crypto.randomUUID();
@@ -40,7 +40,7 @@ export function normalizeState(s) {
  provider:{protocol:['openai','anthropic','gemini'].includes(s.provider.protocol)?s.provider.protocol:'openai',baseUrl:text(s.provider.baseUrl,'',2000),model:text(s.provider.model,'',200)},
  plugins:s.plugins.map(p=>{if(typeof p?.id!=='string'||typeof p.name!=='string'||typeof p.url!=='string')throw new Error('插件数据损坏');return {id:p.id,name:text(p.name,'',80),url:text(p.url,'',2000),type:p.type==='plugin'?'plugin':'mcp'};}),
  appearance:{accent:/^#[a-f\d]{6}$/i.test(a.accent)?a.accent:defaults.appearance.accent,wallpaper:image(a.wallpaper),userAvatar:image(a.userAvatar),aiAvatar:image(a.aiAvatar),blur:Number.isFinite(a.blur)?Math.min(40,Math.max(0,a.blur)):22,opacity:Number.isFinite(a.opacity)?Math.min(95,Math.max(30,a.opacity)):60},
- home:{since:daysTogether(h.since)!==null?h.since:defaults.home.since,title:text(h.title,defaults.home.title,40),userName:text(h.userName,'我',40),subtitle:text(h.subtitle,defaults.home.subtitle,200),note:text(h.note,'',500),mood:text(h.mood,'',30),widgets:normalizedWidgets},
+ home:{userBubble:text(h.userBubble,'喵……',40),aiBubble:text(h.aiBubble,'我在。',40),widgetTitles:Object.fromEntries(WIDGETS.map(type=>[type,text(h.widgetTitles?.[type],'',20)])),showWeekday:h.showWeekday!==false,memoryId:text(h.memoryId,'',100),since:daysTogether(h.since)!==null?h.since:defaults.home.since,title:text(h.title,defaults.home.title,40),userName:text(h.userName,'我',40),subtitle:text(h.subtitle,defaults.home.subtitle,200),note:text(h.note,'',500),mood:text(h.mood,'',30),widgets:normalizedWidgets},
  memories:Array.isArray(s.memories)?s.memories.map(m=>{
    if (typeof m?.id !== 'string'|| typeof m.content !== 'string') throw new Error('记忆数据损坏');
    return {id:m.id,title:text(m.title,'',80),content:text(m.content),kind:m.kind==='permanent'?'permanent':'short',created:Number.isFinite(m.created)?m.created:Date.now(),expires:m.kind==='permanent'?null:Number.isFinite(m.expires)?m.expires:Date.now()+7*86400000,source:text(m.source,'',200)};

diff --git a/tests/customization.test.js b/tests/customization.test.js
@@ -36,3 +36,9 @@ test('invalid import is rejected instead of replacing data silently',()=>{
  assert.throws(()=>normalizeState({version:2,sessions:[]}),/备份/);
  const state=createState();state.sessions.push({...state.sessions[0]});assert.throws(()=>normalizeState(state),/会话/);
 });
+
+test('home editor fields survive backup and old homes receive safe defaults',()=>{
+ const s=createState();Object.assign(s.home,{userBubble:'喵…',aiBubble:'我在。',widgetTitles:{note:'便笺'},showWeekday:false,memoryId:'saved'});
+ const loaded=normalizeState(JSON.parse(JSON.stringify(s)));assert.equal(loaded.home.userBubble,'喵…');assert.equal(loaded.home.aiBubble,'我在。');assert.equal(loaded.home.widgetTitles.note,'便笺');assert.equal(loaded.home.showWeekday,false);assert.equal(loaded.home.memoryId,'saved');
+ delete s.home.userBubble;delete s.home.widgetTitles;assert.equal(normalizeState(s).home.userBubble,'喵……');s.home.aiBubble='x'.repeat(100);assert.equal(normalizeState(s).home.aiBubble.length,40);
+});

diff --git a/README.md b/README.md
@@ -77,3 +77,7 @@ npm test
 聊天消息支持长按、右键或键盘 Shift+F10 打开玻璃菜单。用户消息可复制、编辑、回滚至此、创建分支和删除，AI 消息可复制、创建分支和删除。回滚保留当前消息并移除后续消息；分支复制至当前消息，原会话保留。编辑仅修改文本并保留附件，不重新生成已有回复。
 
 AI 消息的「思考详情」打开底部抽屉，显示服务明确提供的 `reasoningSummary`；没有数据时显示空状态，不生成或模拟思维链。该字段与分支来源随本机备份保留。目前尚未连接模型服务。
+
+主页纪念日采用透明无边框布局：24 小时实时时钟、天数、双头像和可编辑气泡。长按小组件、右键或使用底部编辑入口进入主页编辑模式；在主页弹窗修改纪念日日期、头像、名字、气泡和所有小组件配置。支持隐藏、重新添加和箭头排序，取消编辑不保存。主页配置不再放在设置页。
+
+交互动效覆盖按钮按压、页面切换、侧边栏、弹窗、设置展开、选中反馈及主页组件换位。所有新增动效遵循系统减少动态效果偏好。
